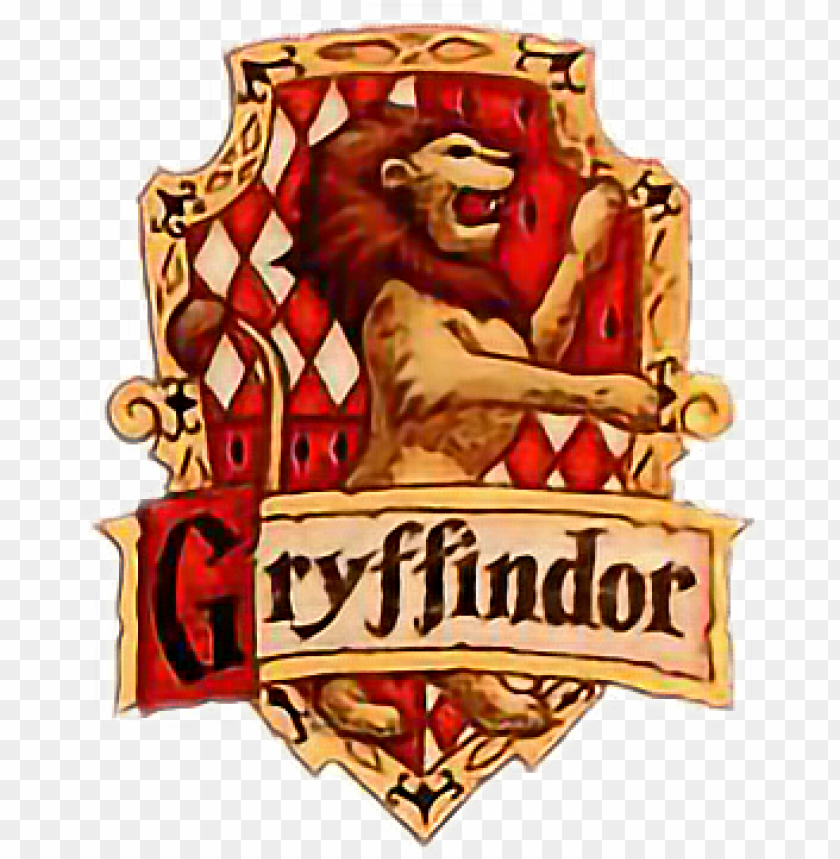
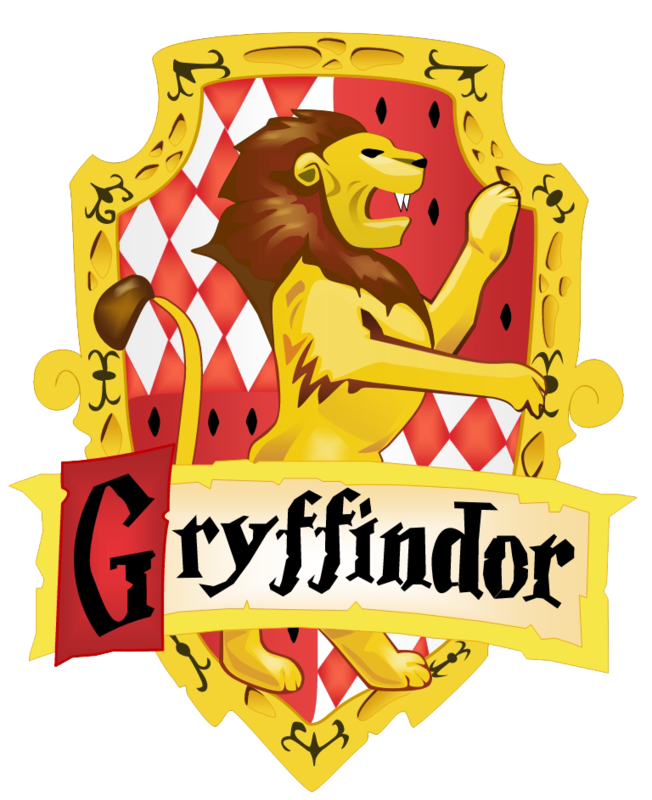
new crests, hackthesystem done

diff --git a/script.js b/script.js
@@ -6,7 +6,8 @@ let filterBy = "all";
 const settings = {
     filter: "all",
     sortBy: "firstname",
-    sortDir: "asc"
+    sortDir: "asc",
+    hacked: false
 }
 //prototype
 const Student = {
@@ -40,6 +41,15 @@ function start() {
 
     registerButtons();
     registerSearch();
+    let qCount = 0;
+    document.querySelector("#search-text").addEventListener("input", function () {
+        if (this.input = "q") {
+            qCount++;
+        }
+        if (qCount === 4) {
+            hackTheSystem();
+        }
+    });
 }
 
 function loadJSON(url, callback) {
@@ -59,7 +69,7 @@ function compareBloodstatus() {
         } else if (pureBlood.includes(student.lastname)) {
             student.bloodStatus = "Pure-blood";
         } else {
-            student.bloodStatus = "Muggle born";
+            student.bloodStatus = "Muggle-born";
         }
     });
 }
@@ -179,19 +189,23 @@ function showDetail(student) {
     document.querySelector("#detail_info p:nth-child(4)").innerHTML = "Nickname: " + student.nickname;
     document.querySelector("#detail_info p:nth-child(5)").innerHTML = "House: " + student.house;
     document.querySelector("#detail_info p:nth-child(6)").innerHTML = "Blood-status: " + student.bloodStatus;
-    document.querySelector("#picture").src = "img/" + getImage(student);
+    if (student.cloakOfInvisibility === true) {
+        document.querySelector("#picture").src = student.image;
+    } else {
+        document.querySelector("#picture").src = "img/" + getImage(student);
+    }
     document.querySelector("#crest").src = "img2/" + student.house.toLowerCase() + "_crest.png";
     if (student.house === "Gryffindor") {
-        document.querySelector("#detail_view").style.backgroundColor = "#F82525";
+        document.querySelector("#detail_view").style.backgroundImage = "linear-gradient(to bottom right, red, black)";
     }
     if (student.house === "Hufflepuff") {
-        document.querySelector("#detail_view").style.backgroundColor = "#FAF61E";
+        document.querySelector("#detail_view").style.backgroundImage = "linear-gradient(to bottom right, yellow, black)";
     }
     if (student.house === "Ravenclaw") {
-        document.querySelector("#detail_view").style.backgroundColor = "#3835FC";
+        document.querySelector("#detail_view").style.backgroundImage = "linear-gradient(to bottom right, #6381FC, black)";
     }
     if (student.house === "Slytherin") {
-        document.querySelector("#detail_view").style.backgroundColor = "#3FA130";
+        document.querySelector("#detail_view").style.backgroundImage = "linear-gradient(to bottom right, green, black)";
     }
 
 
@@ -215,7 +229,6 @@ function showDetail(student) {
 
     function makePrefect() {
         let prefectCounter = 0;
-        console.log(student)
         allStudents.forEach(s => {
             if (s.prefect === true && s.house === student.house) {
                 prefectCounter++;
@@ -226,11 +239,9 @@ function showDetail(student) {
         }
         if (prefectCounter < 2) {
             if (student.prefect === false) {
-                console.log("yo1");
                 student.prefect = true;
                 document.querySelector("#prefect_btn").innerHTML = "Is a prefect";
             } else if (student.prefect === true) {
-                console.log("yo2");
                 student.prefect = false;
                 document.querySelector("#prefect_btn").innerHTML = "Make prefect";
             }
@@ -246,21 +257,28 @@ function showDetail(student) {
     document.querySelector("#inquisitor_btn").addEventListener("click", makeInquisitor);
 
     function makeInquisitor() {
-        console.log("inquist")
-
         if (student.bloodStatus === "Pure-blood" && student.house === "Slytherin" && student.inquisitor === false) {
-            console.log("naaa");
             student.inquisitor = true;
             document.querySelector("#inquisitor_btn").innerHTML = "Student is a member of the inquisitorial squad";
-
+            if (settings.hacked === true) {
+                setTimeout(removeInquisitor, 1000);
+            }
         } else if (student.inquisitor === true) {
-            console.log("yoasd");
             document.querySelector("#inquisitor_btn").innerHTML = "Make Inquisitor";
             student.inquisitor = false;
 
         } else {
             inquisitorError();
 
+        }
+
+        function removeInquisitor() {
+            document.querySelector("#detail_view").classList.add("shake");
+            document.querySelector("#inquisitor_btn").innerHTML = "Make Inquisitor";
+            student.inquisitor = false;
+            document.querySelector("#detail_view").addEventListener("animationend", function () {
+                document.querySelector("#detail_view").classList.remove("shake");
+            })
         }
     }
 
@@ -274,43 +292,46 @@ function showDetail(student) {
     document.querySelector("#expel_btn").addEventListener("click", expelStudent);
 
     function expelStudent() {
-        if (student.house === "Gryffindor") {
+        if (student.cloakOfInvisibility === true) {
+            console.log("protego");
+        } else if (student.house === "Gryffindor") {
             gryffindorCounter--;
-        }
-        if (student.house === "Hufflepuff") {
+        } else if (student.house === "Hufflepuff") {
             hufflepuffCounter--;
-        }
-        if (student.house === "Ravenclaw") {
+        } else if (student.house === "Ravenclaw") {
             ravenclawCounter--;
-        }
-        if (student.house === "Slytherin") {
+        } else if (student.house === "Slytherin") {
             slytherinCounter--;
         }
-        student.expelled = true;
-        expelledStudents.push(student);
-        allStudents.splice(allStudents.indexOf(student), 1);
-        console.log(expelledStudents);
-        buildList();
+        if (student.cloakOfInvisibility === true) {
+            console.log("protego");
+        } else {
+            student.expelled = true;
+            expelledStudents.push(student);
+            allStudents.splice(allStudents.indexOf(student), 1);
+            buildList();
+            document.querySelector("#expel_btn").innerHTML = "EXPELLED";
+            document.querySelector("#expel_btn").removeEventListener("click", expelStudent);
+
+        }
     }
 
     if (student.expelled === true) {
         document.querySelector("#prefect_btn").removeEventListener("click", makePrefect);
         document.querySelector("#inquisitor_btn").removeEventListener("click", makeInquisitor);
         document.querySelector("#expel_btn").removeEventListener("click", expelStudent);
-        document.querySelector("#expel_btn").innerHTML = "Student has been expelled";
+        document.querySelector("#expel_btn").innerHTML = "EXPELLED";
     }
 }
 
 
 
 function prefectError(student) {
-    console.log("yo");
     document.querySelector("#not_prefect .dialogcontent h1").innerHTML = "Already 2 prefects in this house";
 
     document.querySelector("#not_prefect").classList.add("show");
     allStudents.forEach(s => {
         if (s.prefect === true && s.house === student.house) {
-            console.log(s);
             const currentPrefect = document.createElement("p");
             currentPrefect.innerHTML = s.fullname;
             const removeBtn = document.createElement("button");
@@ -344,7 +365,6 @@ function prefectError(student) {
 
 
 function inquisitorError() {
-    console.log("yo");
     document.querySelector("#not_inquisitor").classList.add("show");
     document.querySelector(".closebutton").addEventListener("click", function () {
         document.querySelector("#not_inquisitor").classList.remove("show");
@@ -362,17 +382,17 @@ function getImage(student) {
         }
     });
     if (student.lastname.includes("-") == true) {
+
         let indexHyphen = student.lastname.indexOf("-");
         student.image = student.lastname.substring(indexHyphen + 1);
-        student.image = student.lastname.toLowerCase() + "_" + student.fullname.split(' ')[0].substring(0, 1).toLowerCase() + ".png";
+        student.image = student.image.toLowerCase() + "_" + student.fullname.split(' ')[0].substring(0, 1).toLowerCase() + ".png";
+
     } else {
         student.image = student.lastname.toLowerCase() + "_" + student.fullname.split(' ')[0].substring(0, 1).toLowerCase() + ".png";
     }
     if (imgCount === 2) {
         student.image = student.lastname.toLowerCase() + "_" + student.firstname.toLowerCase() + ".png";
-        console.log("yo");
     }
-    console.log(student.image);
     return student.image;
 }
 
@@ -388,7 +408,6 @@ function fixName(fullname) {
         capLetters = capLetters + currentLetter;
     }
     fullname = capLetters;
-    console.log(fullname);
     return fullname;
 }
 
@@ -480,7 +499,6 @@ function selectSort(event) {
     event.target.classList.add("sort_by");
 
     console.log(sortBy);
-    console.log("her" + oldElement);
 
     if (sortDir === "asc") {
         event.target.dataset.sortDirection = "desc";
@@ -543,4 +561,39 @@ function search(filteredList) {
     }
 
     displayList(filteredList);
+}
+
+
+function hackTheSystem() {
+    settings.hacked = true;
+    injectSelf();
+    hackBloodStatus();
+}
+
+function injectSelf() {
+    const student = Object.create(Student);
+    student.firstname = "Alexander";
+    student.lastname = "Tyllesen";
+    student.middlename = "Obel";
+    student.fullname = "Alexander Obel Tyllesen";
+    student.house = "Hufflepuff";
+    student.bloodStatus = "Half-Blood";
+    student.image = "img2/me.jpg";
+    student.cloakOfInvisibility = true;
+    student.prefect = false;
+    student.inquisitor = false;
+    allStudents.push(student);
+    hufflepuffCounter++;
+    buildList();
+    houseCounter();
+}
+
+function hackBloodStatus() {
+    allStudents.forEach(student => {
+        if (student.bloodStatus === "Pure-blood") {
+            const values = ["Pure-blood", "Half-blood", "Muggle-born"]
+            const random = Math.floor(Math.random() * values.length);
+            student.bloodStatus = values[Math.floor(Math.random() * values.length)];
+        }
+    })
 }

diff --git a/style.css b/style.css
@@ -152,7 +152,6 @@ tr {
     padding: 1em 2em;
     padding-top: 2em;
     position: relative;
-    background-color: green;
     grid-gap: 10px;
 
 }
@@ -296,5 +295,79 @@ tr {
 
     100% {
         opacity: 0;
+    }
+}
+
+.hufflepuff {
+    background-color: yellow;
+    background-image: linear-gradient(to bottom right, yellow, black);
+}
+
+.gryffindor {
+    background-color: red;
+    background-image: linear-gradient(to bottom right, red, black);
+}
+
+.ravenclaw {
+    background-color: blue;
+    background-image: linear-gradient(to bottom right, blue, black);
+}
+
+.slytherin {
+    background-color: green;
+    background-image: linear-gradient(to bottom right, green, black);
+}
+
+.shake {
+    animation-name: shake_kf;
+    animation-duration: 1s;
+    animation-iteration-count: 1;
+    animation-timing-function: linear;
+
+}
+
+@keyframes shake_kf {
+    0% {
+        transform: translate(1px, 1px) rotate(0deg);
+    }
+
+    10% {
+        transform: translate(-1px, -2px) rotate(-1deg);
+    }
+
+    20% {
+        transform: translate(-3px, 0px) rotate(1deg);
+    }
+
+    30% {
+        transform: translate(3px, 2px) rotate(0deg);
+    }
+
+    40% {
+        transform: translate(1px, -1px) rotate(1deg);
+    }
+
+    50% {
+        transform: translate(-1px, 2px) rotate(-1deg);
+    }
+
+    60% {
+        transform: translate(-3px, 1px) rotate(0deg);
+    }
+
+    70% {
+        transform: translate(3px, 1px) rotate(-1deg);
+    }
+
+    80% {
+        transform: translate(-1px, -1px) rotate(1deg);
+    }
+
+    90% {
+        transform: translate(1px, 2px) rotate(0deg);
+    }
+
+    100% {
+        transform: translate(1px, -2px) rotate(-1deg);
     }
 }
